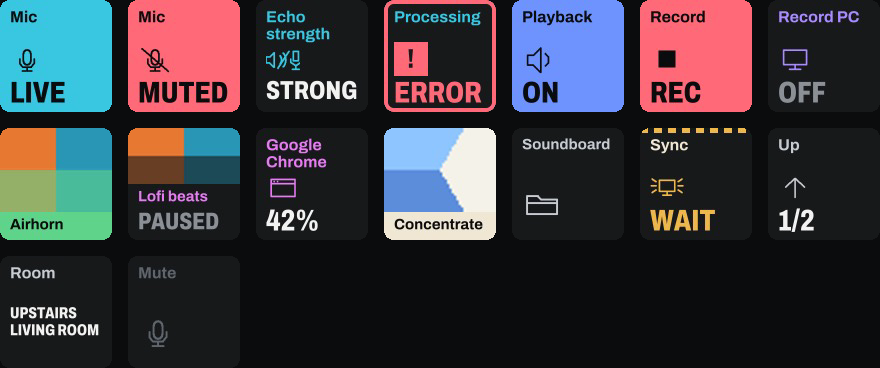
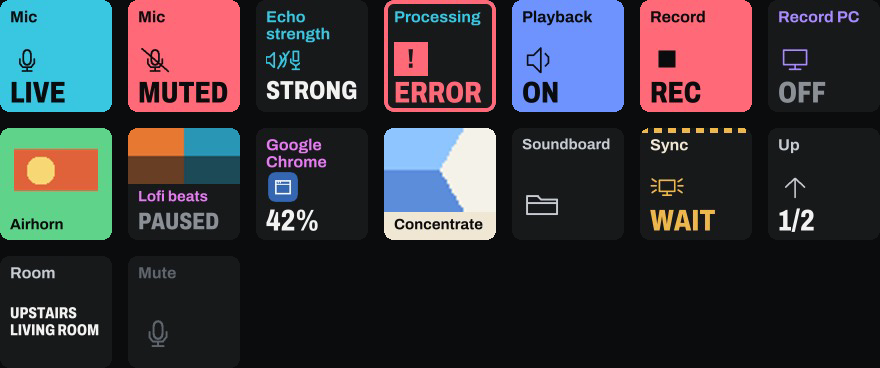
feat(streamdeck): draw artwork by content type

Changed region(s): [[0.0, 0.3288, 0.1534, 0.5978], [0.3068, 0.4484, 0.3375, 0.5679]]

diff --git a/internal/streamdeck/keylayout.go b/internal/streamdeck/keylayout.go
@@ -109,11 +109,13 @@ func drawKey(lines []string, w, h int, on bool, icon string, fallback, inactive 
 	fill(im, 0, 0, w*scale, h*scale, style.background)
 
 	set := typefaces()
-	if art, ok := decodeArtwork(artwork); ok {
+	art, hasArt := decodeArtwork(artwork)
+	kind := artworkKind(icon)
+	if hasArt && kind != programArt {
 		if value == "" {
-			scrolls = drawArtworkLabel(im, scale, w, art, label, style.label, phase)
+			scrolls = drawArtworkLabel(im, scale, w, art, kind, label, style.label, phase)
 		} else {
-			drawBand(im, scale, w, bandHeight, art)
+			drawBand(im, scale, w, bandHeight, art, kind)
 			if label != "" {
 				if f, ok := set.fitWords(labelFace, label, keyTextWidth, 15, 12, 1); ok {
 					set.draw(im, scale, labelFace, f.px, keyInset, bandHeight+4, f.lines[0], style.label)
@@ -148,6 +150,9 @@ func drawKey(lines []string, w, h int, on bool, icon string, fallback, inactive 
 		switch {
 		case style.alert:
 			drawAlert(im, scale, keyInset, top, size)
+		case v.icon && hasArt:
+			// A program icon is the key's icon, at icon size.
+			drawArtIcon(im, scale, art, keyInset, top, size)
 		case v.icon:
 			drawIconBox(im, scale, icon, style.icon, keyInset, top, size)
 		}
@@ -314,10 +319,10 @@ func routineWord(icon, value string) bool {
 // drawArtworkLabel lays out an artwork key with no value: the label sits at
 // the bottom on up to two lines, and the artwork fills the space above it.
 // It reports whether the label scrolls.
-func drawArtworkLabel(im *image.RGBA, scale, w int, art image.Image, label string, ink color.RGBA, phase time.Duration) bool {
+func drawArtworkLabel(im *image.RGBA, scale, w int, art image.Image, kind artKind, label string, ink color.RGBA, phase time.Duration) bool {
 	set := typefaces()
 	if label == "" {
-		drawBand(im, scale, w, 104, art)
+		drawBand(im, scale, w, 104, art, kind)
 		return false
 	}
 	f, fits := set.fitWords(labelFace, label, keyTextWidth, 15, 12, 2)
@@ -325,7 +330,7 @@ func drawArtworkLabel(im *image.RGBA, scale, w int, art image.Image, label strin
 		f = fitted{px: 15, lines: []string{label}}
 	}
 	top := 104 - len(f.lines)*(f.px+1)
-	drawBand(im, scale, w, top-4, art)
+	drawBand(im, scale, w, top-4, art, kind)
 	if !fits {
 		set.drawScrolling(im, scale, labelFace, 15, keyInset, top, keyTextWidth, label, ink, phase)
 		return true
@@ -337,11 +342,17 @@ func drawArtworkLabel(im *image.RGBA, scale, w int, art image.Image, label strin
 }
 
 // drawBand scales artwork into a band height pixels tall at the top of the
-// key, cropped to the band's shape. Square artwork shows its centred rows;
-// artwork with transparent corners (a pie) shows the rectangle inscribed in
-// its circle, so no round edge shows.
-func drawBand(im *image.RGBA, scale, w, height int, art image.Image) {
+// key, by content type. A cover is cropped to the band's shape; a pie shows
+// the rectangle inscribed in its circle, so no round edge shows; clip art is
+// shown whole, scaled to the band's height and centred over the fill.
+func drawBand(im *image.RGBA, scale, w, height int, art image.Image, kind artKind) {
 	b := art.Bounds()
+	if kind == clipArt {
+		side := min(w, height)
+		x := (w - side) / 2
+		xdraw.CatmullRom.Scale(im, image.Rect(x*scale, (height-side)*scale, (x+side)*scale, height*scale), art, b, draw.Over, nil)
+		return
+	}
 	aspect := float64(w) / float64(height)
 	cx := float64(b.Min.X) + float64(b.Dx())/2
 	cy := float64(b.Min.Y) + float64(b.Dy())/2
@@ -350,11 +361,42 @@ func drawBand(im *image.RGBA, scale, w, height int, art image.Image) {
 	if aspect < 1 {
 		cropW, cropH = side*aspect, side
 	}
-	if _, _, _, a := art.At(b.Min.X, b.Min.Y).RGBA(); a == 0 {
+	if kind == pieArt {
 		r := side/2 - 1
 		cropH = 2 * r / math.Sqrt(1+aspect*aspect)
 		cropW = aspect * cropH
 	}
 	source := image.Rect(int(math.Ceil(cx-cropW/2)), int(math.Ceil(cy-cropH/2)), int(math.Floor(cx+cropW/2)), int(math.Floor(cy+cropH/2)))
 	xdraw.CatmullRom.Scale(im, image.Rect(0, 0, w*scale, height*scale), art, source, draw.Over, nil)
+}
+
+// artKind is what a key's artwork shows, which decides how it is drawn
+// (openspec/changes/deck-artwork-kinds).
+type artKind int
+
+const (
+	coverArt   artKind = iota // Album art: fills a cropped band.
+	pieArt                    // Scene wedges: cropped inside the circle.
+	clipArt                   // A soundboard image: shown whole.
+	programArt                // A program icon or placeholder: the key's icon.
+)
+
+// artworkKind names the artwork's content type from the control's icon.
+func artworkKind(icon string) artKind {
+	icon = strings.TrimSuffix(strings.TrimSuffix(icon, "-muted"), "-off")
+	switch {
+	case icon == "hue-scene":
+		return pieArt
+	case strings.HasPrefix(icon, "soundboard-"):
+		return clipArt
+	case icon == "app-audio":
+		return programArt
+	}
+	return coverArt
+}
+
+// drawArtIcon scales artwork smoothly into a size-pixel square at key pixel
+// (x, y), as the key's icon.
+func drawArtIcon(im *image.RGBA, scale int, art image.Image, x, y, size int) {
+	xdraw.CatmullRom.Scale(im, image.Rect(x*scale, y*scale, (x+size)*scale, (y+size)*scale), art, art.Bounds(), draw.Over, nil)
 }

diff --git a/internal/streamdeck/keylayout_test.go b/internal/streamdeck/keylayout_test.go
@@ -10,6 +10,8 @@ import (
 	"math"
 	"os"
 	"testing"
+
+	"sound-snoofer/internal/placeholder"
 )
 
 // unrotate decodes a key JPEG and undoes the hardware rotation.
@@ -197,9 +199,56 @@ func TestLongValuesWrapInPlaceOfTheIcon(t *testing.T) {
 	}
 }
 
+// clipArtwork is a wide image fitted into the 64 px square the soundboard
+// sends: transparent bands above and below, the picture between.
+func clipArtwork(t *testing.T) string {
+	t.Helper()
+	im := image.NewNRGBA(image.Rect(0, 0, 64, 64))
+	for y := 16; y < 48; y++ {
+		for x := 0; x < 64; x++ {
+			c := color.NRGBA{224, 98, 58, 255}
+			if (x-20)*(x-20)+(y-32)*(y-32) < 120 {
+				c = color.NRGBA{247, 215, 116, 255}
+			}
+			im.SetNRGBA(x, y, c)
+		}
+	}
+	var b bytes.Buffer
+	if err := png.Encode(&b, im); err != nil {
+		t.Fatal(err)
+	}
+	return base64.StdEncoding.EncodeToString(b.Bytes())
+}
+
+func TestArtworkByKind(t *testing.T) {
+	if artworkKind("hue-scene") != pieArt || artworkKind("soundboard-play") != clipArt || artworkKind("app-audio") != programArt ||
+		artworkKind("app-audio-muted") != programArt || artworkKind("media-play") != coverArt {
+		t.Fatal("artwork kinds")
+	}
+	// Clip art is shown whole: its transparent bands show the key's fill,
+	// and the picture is not zoomed past the band's edges.
+	clip := decodeKey(t, "Airhorn", "Ready", "soundboard-play", false, clipArtwork(t))
+	if !near(clip.RGBAAt(56, 4), keyColor, 30) {
+		t.Fatal("clip art was cropped to fill the band", clip.RGBAAt(56, 4))
+	}
+	if near(clip.RGBAAt(56, 42), keyColor, 30) {
+		t.Fatal("clip art missing")
+	}
+	// A program icon sits in the icon slot, between the name and the value.
+	app := decodeKey(t, "Discord", "42%", "app-audio", false, placeholder.Art("Discord", placeholder.App))
+	if near(app.RGBAAt(26, 58), keyColor, 30) {
+		t.Fatal("program icon missing from the icon slot")
+	}
+	if !near(app.RGBAAt(90, 58), keyColor, 30) {
+		t.Fatal("program icon spread past the icon slot", app.RGBAAt(90, 58))
+	}
+}
+
 func TestRowsPreview(t *testing.T) {
 	art := testArtwork(t)
 	pie := pieArtwork(t)
+	clip := clipArtwork(t)
+	app := placeholder.Art("Google Chrome", placeholder.App)
 	examples := []struct {
 		label, value, icon string
 		on                 bool
@@ -212,9 +261,9 @@ func TestRowsPreview(t *testing.T) {
 		{"Playback", "On", "speaker-mute", true, ""},
 		{"Record", "Recording", "record-stop", true, ""},
 		{"Record PC", "Off", "record-computer", false, ""},
-		{"Airhorn", "Playing", "soundboard-play", false, art},
+		{"Airhorn", "Playing", "soundboard-play", false, clip},
 		{"Lofi beats", "Paused", "media-play", false, art},
-		{"Google Chrome", "42%", "app-audio", false, ""},
+		{"Google Chrome", "42%", "app-audio", false, app},
 		{"Concentrate", "Active", "hue-scene", false, pie},
 		{"Soundboard", "", "deck-page", false, ""},
 		{"Sync", "Wait", "huesync-sync", false, ""},

diff --git a/internal/streamdeck/strip_test.go b/internal/streamdeck/strip_test.go
@@ -6,6 +6,8 @@ import (
 	"image/jpeg"
 	"os"
 	"testing"
+
+	"sound-snoofer/internal/placeholder"
 )
 
 func TestStripPreview(t *testing.T) {
@@ -14,7 +16,7 @@ func TestStripPreview(t *testing.T) {
 	frame.Dials[0] = Tile{Label: "Playback", Value: "-12.0 dB", Icon: "speaker-mute", Meter: true, LevelKnown: true, LevelDB: -14,
 		PeakKnown: true, PeakDB: -9, PositionKnown: true, Position: 0.67, ZeroMark: 0.83}
 	frame.Dials[1] = Tile{Label: "Mic", Value: "0.0 dB", Icon: "mic-mute", Meter: true, Status: "Wait"}
-	frame.Dials[4] = Tile{Label: "Mic", Value: "0.0 dB", Icon: "mic-mute", Meter: true, LevelKnown: true, LevelDB: -20, Inactive: true}
+	frame.Dials[4] = Tile{Artwork: placeholder.Art("Discord", placeholder.App), Label: "Discord", Value: "42%", Icon: "app-audio"}
 	frame.Dials[2] = Tile{Artwork: art, Label: "Lofi beats", Value: "1:42 / 3:30", Icon: "media-play", PositionKnown: true, Position: 0.49}
 	frame.Dials[3] = Tile{Timers: [2]TimerTile{{Artwork: art, Label: "Airhorn", Time: "0:03"}}}
 	frame.Dials[5] = Tile{Label: "Media", Value: "Home", Icon: "Lights"}

diff --git a/internal/streamdeck/strip.go b/internal/streamdeck/strip.go
@@ -182,8 +182,14 @@ func drawMeter(im *image.RGBA, x0 int, k knobPresentation) {
 func drawArtworkKnob(im *image.RGBA, x0 int, k knobPresentation, phase time.Duration) bool {
 	set := typefaces()
 	scrolls := false
-	drawThumb(im, x0, 0, 100, k.Artwork, k.Icon)
 	x, width := x0+110, panelWidth-110-8
+	if artworkKind(k.Icon) == programArt {
+		// A program icon stays icon-sized beside the text.
+		drawThumb(im, x0+panelInset, 22, 56, k.Artwork, k.Icon)
+		x, width = x0+80, panelWidth-80-8
+	} else {
+		drawThumb(im, x0, 0, 100, k.Artwork, k.Icon)
+	}
 	line := func(s string, maxPx, minPx, y int, ink color.RGBA) {
 		if f, ok := set.fitWords(labelFace, s, width, maxPx, minPx, 1); ok {
 			set.draw(im, 1, labelFace, f.px, x, y, f.lines[0], ink)

diff --git a/openspec/changes/deck-artwork-kinds/tasks.md b/openspec/changes/deck-artwork-kinds/tasks.md
@@ -1,7 +1,7 @@
 # Tasks
 ## Implementation
 - [x] 1. `docs(deck)`: specify artwork treatment by content type; update the UI contract.
-- [ ] 2. `feat(streamdeck)`: clip art shown whole, program icons in the icon slot and icon-sized on the dial, pies chosen by type; tests; previews.
+- [x] 2. `feat(streamdeck)`: clip art shown whole, program icons in the icon slot and icon-sized on the dial, pies chosen by type; tests; previews.
 - [ ] 3. Validate: gofmt, `go test ./...`, `go vet ./...`, OpenSpec strict validation, canonical build; restart Snoofer.
 
 ## Acceptance
